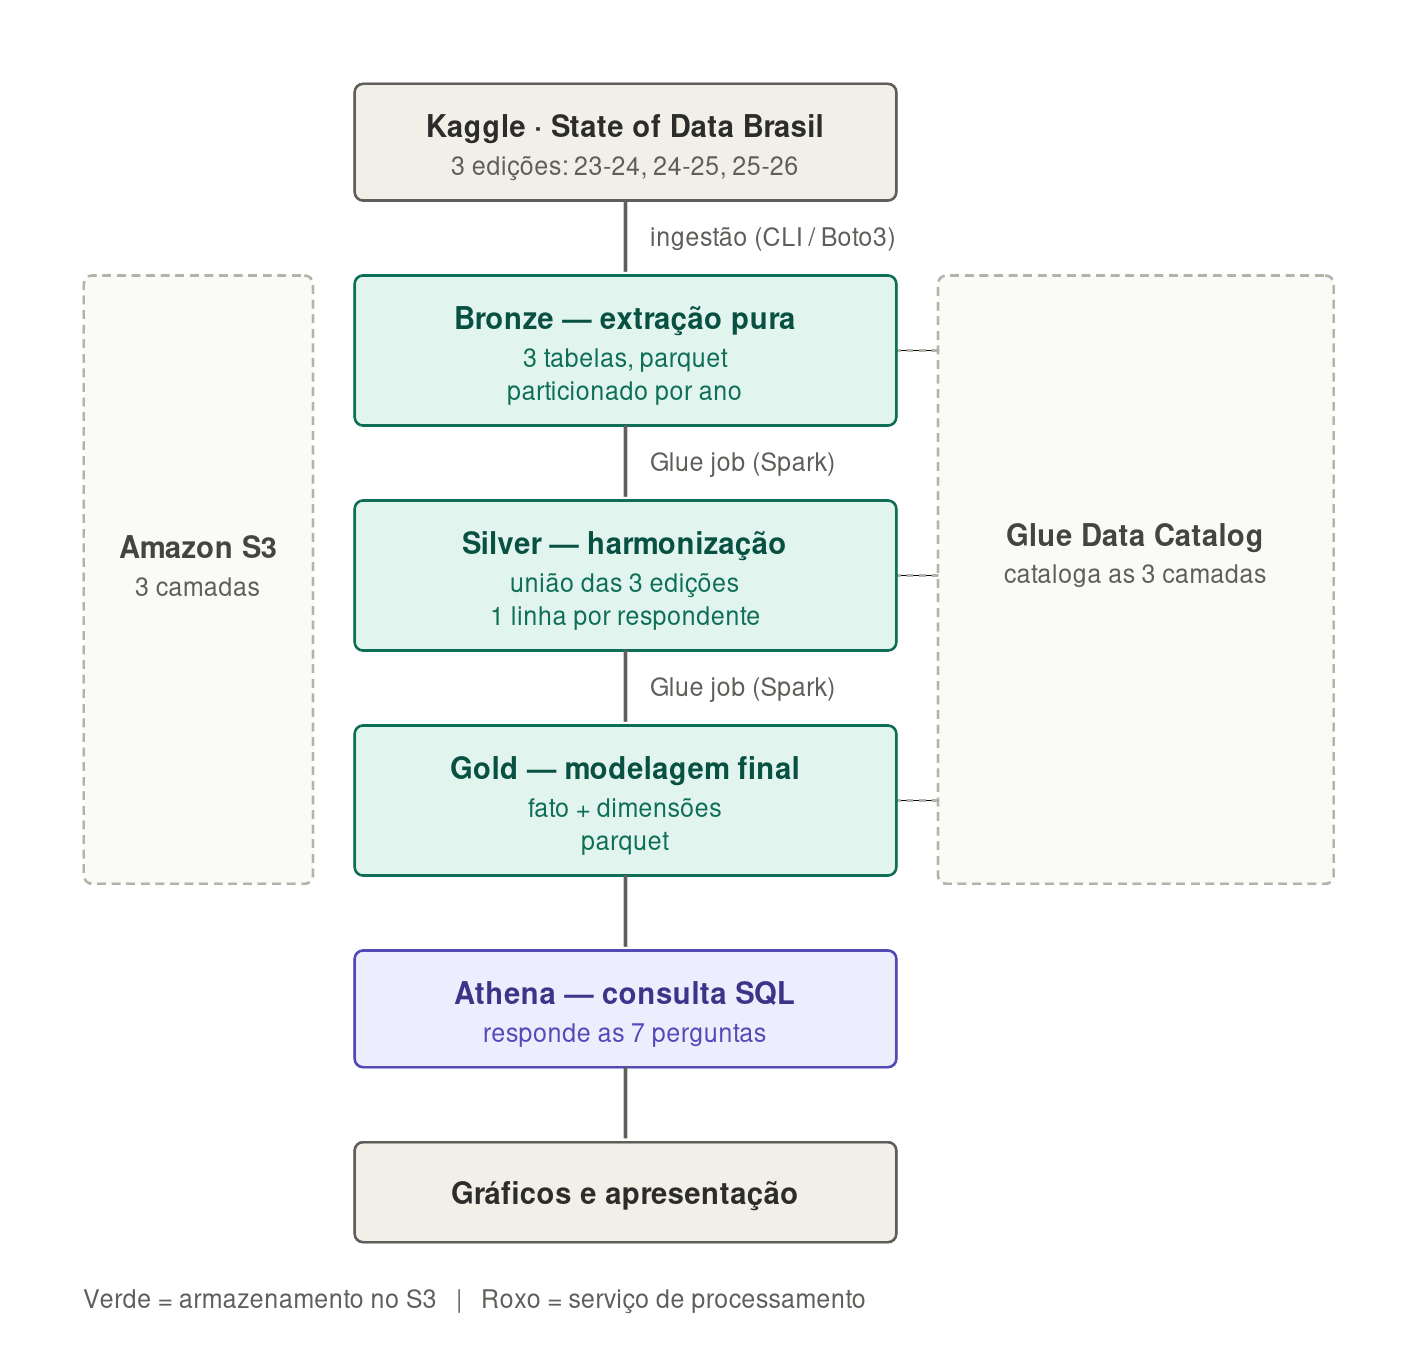
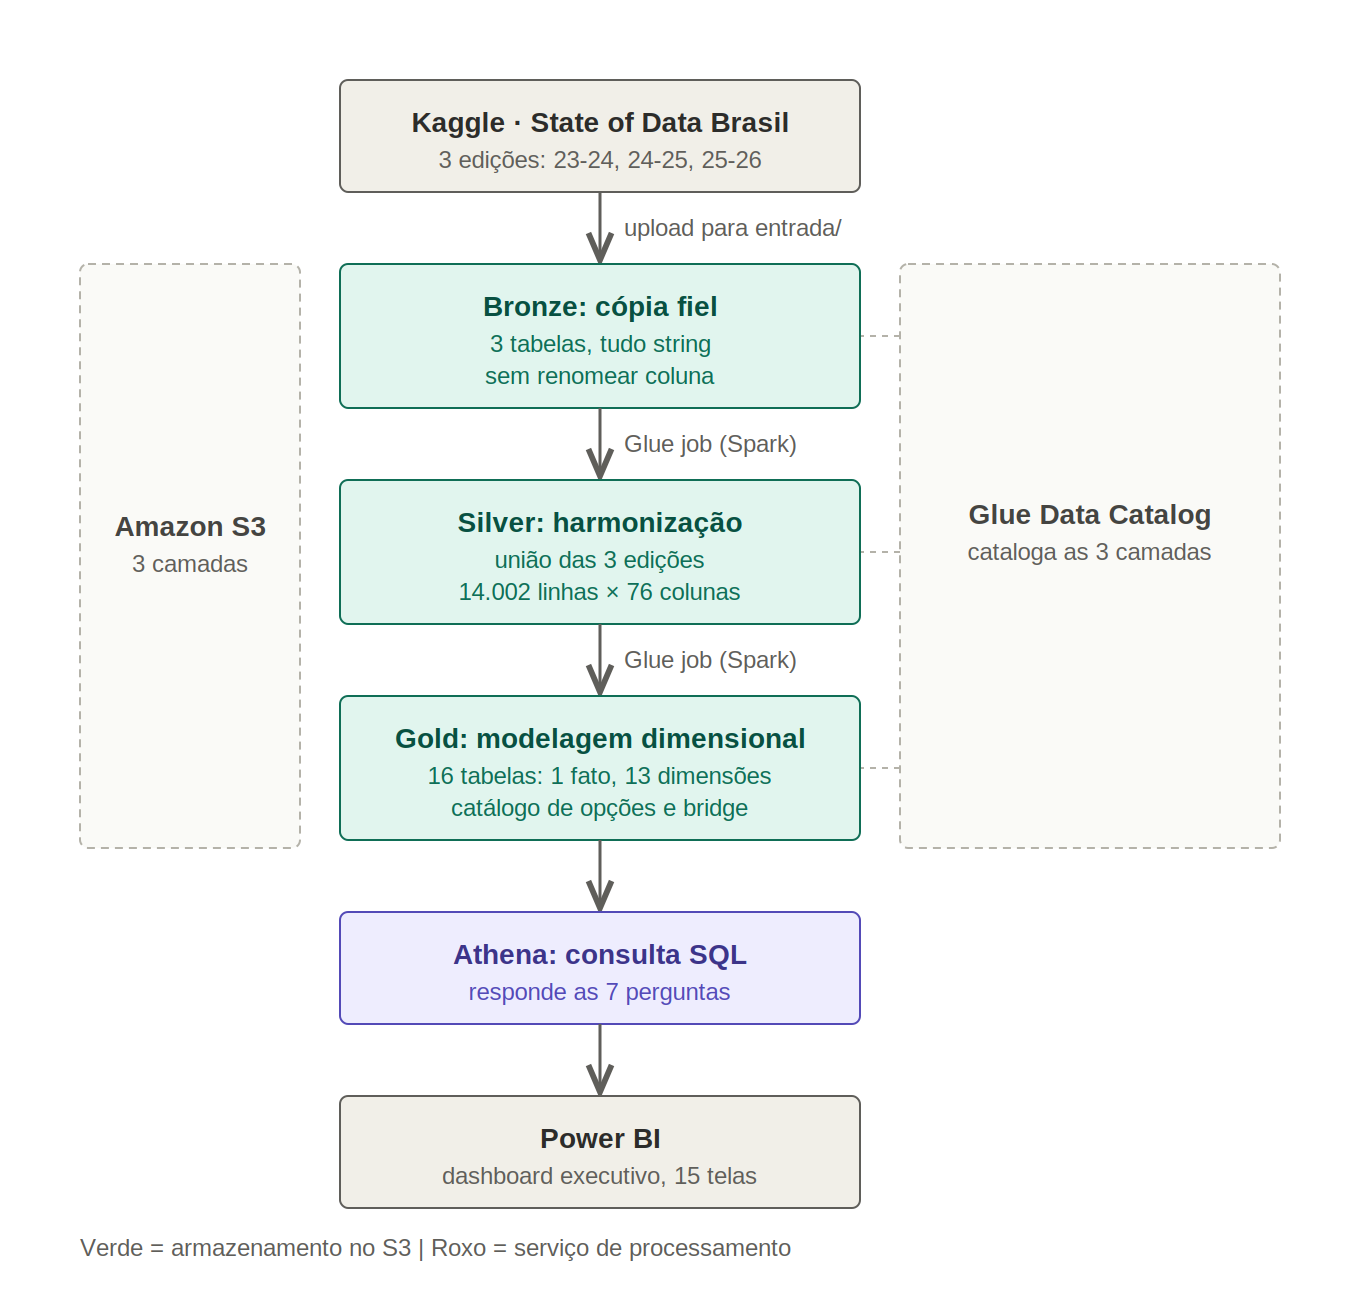
docs: corrigir arquitetura, publicar o drawio editavel e tirar o numero do grupo dos identificadores

diff --git a/glue/bronze/job_bronze.py b/glue/bronze/job_bronze.py
@@ -20,7 +20,7 @@ depender da de cima. As três linhas do manifesto abaixo repetem o que existe em
 
 Origem do código: notebook do Gusthavo (`notebooks/01_bronze.ipynb`).
 
-Executa como Glue Job (PySpark). Grupo 21.
+Executa como Glue Job (PySpark).
 """
 
 import os
@@ -58,7 +58,7 @@ def parametro(nome: str, padrao: str) -> str:
     return os.getenv(nome, padrao)
 
 
-BUCKET = parametro("TC3_BUCKET", "s3://tc3-grupo21-datalake")
+BUCKET = parametro("TC3_BUCKET", "s3://tc3-datalake")
 PATH_ENTRADA = parametro("TC3_PATH_ENTRADA", f"{BUCKET}/entrada")
 PATH_BRONZE = parametro("TC3_PATH_BRONZE", f"{BUCKET}/bronze/state_data")
 
@@ -100,7 +100,7 @@ def gravar(df: DataFrame, caminho: str) -> None:
 
 
 def main() -> None:
-    spark = SparkSession.builder.appName("tc3-grupo21-bronze").getOrCreate()
+    spark = SparkSession.builder.appName("tc3-bronze").getOrCreate()
 
     erros = []
     for arquivo, tabela, linhas_ok, colunas_ok in EDICOES:

diff --git a/glue/gold/gold_comum.py b/glue/gold/gold_comum.py
@@ -1,7 +1,7 @@
 """
 Camada GOLD: base compartilhada pelas 7 perguntas de negócio.
 
-TC3 Grupo 21. Combinado do grupo: **cada um constrói a Gold que alimenta as
+TC3. Combinado do grupo: **cada um constrói a Gold que alimenta as
 SUAS perguntas**, para não haver dois donos na mesma tabela. Este módulo é a
 parte comum, leitura da Silver, dimensões conformadas e os utilitários que
 evitam os erros de contagem que a base cobra caro.
@@ -26,7 +26,7 @@ from pyspark.sql import types as T
 
 from config_silver import parametro  # noqa: E402
 
-BUCKET = parametro("TC3_BUCKET", "s3://tc3-grupo21-datalake")
+BUCKET = parametro("TC3_BUCKET", "s3://tc3-datalake")
 PATH_SILVER = parametro("TC3_PATH_SILVER", f"{BUCKET}/silver/state_data")
 PATH_GOLD = parametro("TC3_PATH_GOLD", f"{BUCKET}/gold")
 DATABASE_GLUE = parametro("TC3_DATABASE", "state_of_data")

diff --git a/glue/silver/job_silver.py b/glue/silver/job_silver.py
@@ -19,7 +19,7 @@ O que esta camada faz (e a Bronze não pode fazer):
 
 Executa como Glue Job (PySpark). Para rodar local, ver notebooks/03_silver_uniao.ipynb.
 
-Autor: Caio Bosnic (Grupo 21)
+Autor: Caio Bosnic
 """
 
 import sys
@@ -374,7 +374,7 @@ def construir_silver(spark: SparkSession) -> DataFrame:
 def main() -> None:
     spark = (
         SparkSession.builder
-        .appName("tc3-grupo21-silver")
+        .appName("tc3-silver")
         .config("spark.sql.sources.partitionOverwriteMode", "dynamic")
         .getOrCreate()
     )

diff --git a/glue/silver/config_silver.py b/glue/silver/config_silver.py
@@ -1,5 +1,5 @@
 """
-Contrato da camada Silver. TC3 Grupo 21.
+Contrato da camada Silver. TC3.
 
 Este módulo NÃO executa nada. Ele declara, em um só lugar:
 
@@ -332,7 +332,7 @@ def parametro(nome: str, padrao: str) -> str:
     return os.getenv(nome, padrao)
 
 
-BUCKET = parametro("TC3_BUCKET", "s3://tc3-grupo21-datalake")
+BUCKET = parametro("TC3_BUCKET", "s3://tc3-datalake")
 
 # Job parameter no Glue, variável de ambiente na máquina: o mesmo job roda nos
 # dois lugares sem branch no código.

diff --git a/dev/tests/verificacoes_silver.py b/dev/tests/verificacoes_silver.py
@@ -9,7 +9,7 @@ Este módulo não roda nada sozinho. Ele é consumido por dois lugares:
 A lógica das asserções mora AQUI e só aqui. Se estivesse duplicada nos dois,
 uma correção num lugar sairia divergente do outro na primeira semana.
 
-Autor: Caio Bosnic (Grupo 21)
+Autor: Caio Bosnic
 """
 
 import glob

diff --git a/glue/gold/job_gold.py b/glue/gold/job_gold.py
@@ -33,7 +33,7 @@ A pesquisa é anual e não tem data de evento: o grão de tempo é a edição. U
 tabela de datas com 1.095 linhas para 3 valores distintos só cria relacionamento
 morto. Decisão registrada em DECISOES_E_ACHADOS.md.
 
-Autor: Caio Bosnic (Grupo 21)
+Autor: Caio Bosnic
 """
 
 import functools

diff --git a/glue/silver/grupos_multipla_escolha.py b/glue/silver/grupos_multipla_escolha.py
@@ -1,5 +1,5 @@
 """
-Grupos de múltipla escolha do State of Data Brasil. TC3 Grupo 21.
+Grupos de múltipla escolha do State of Data Brasil. TC3.
 
 ARQUIVO GERADO. Não editar à mão sem registrar o motivo aqui.
 

diff --git a/docs/PENDENCIAS.md b/docs/PENDENCIAS.md
@@ -9,10 +9,17 @@ Entregáveis e decisões ainda abertos. Ordem de prioridade.
 | O que | Onde começa |
 |---|---|
 | Apresentação executiva (PPT) | a partir dos prints do dashboard e dos números de `results/` |
-| Desenho da arquitetura no draw.io | conferir se `docs/arquitetura_tc3.png` atende ou refazer com as três camadas e o Data Catalog transversal |
 | Notebooks `03_gold.ipynb` e `04_analises_e_graficos.ipynb` | `notebooks/` hoje tem Bronze, Silver e a validação da Silver |
 
 ## Aberto com o grupo
+
+**Qual desenho da arquitetura vai na apresentação.** Existem dois, e eles
+divergem. O do Gusthavo (`docs/arquitetura_dw_gusthavo.png`, fonte no Drive)
+mostra o Data Catalog como uma etapa entre a Gold e o Athena e termina em
+QuickSight. O nosso (`docs/arquitetura_tc3.drawio`, com `.svg` e `.png` ao lado)
+põe o Catalog como camada transversal às três, que é como o crawler roda de
+fato, e termina no Power BI, que foi a ferramenta usada. Decidir qual entra, ou
+se o do Gusthavo é atualizado a partir do `.drawio`.
 
 **Contagem de 2023.** O SQL do Gusthavo comenta 5.923 respostas, e a Silver tem
 5.293. Os dígitos são os mesmos em ordem diferente, o que sugere digitação, mas
@@ -27,6 +34,11 @@ apontando o crawler para um caminho com o nome desejado.
 
 ## Git
 
-Existe um repositório em `techchallenge/` cobrindo os três Tech Challenges, então
-`git init` dentro desta pasta criaria um repositório aninhado. Conferir
-`git remote -v` antes de decidir os comandos de push.
+O repositório do grupo é
+[`GusthavoSoares/tech_challenge_data_analytics_fase_3`](https://github.com/GusthavoSoares/tech_challenge_data_analytics_fase_3),
+e hoje traz a Bronze do Gusthavo: o notebook do ETL, as três consultas e o
+desenho do DW. Como as duas histórias começaram separadas, o que vem daqui entra
+por branch e Pull Request, não direto no `main`.
+
+Fonte do desenho da arquitetura, no Drive do Gusthavo:
+<https://drive.google.com/file/d/1DngqFuv4RscUxi_CCq9VnvH3tNjJUTdW/view?usp=sharing>

diff --git a/docs/CONTRATO_SILVER.md b/docs/CONTRATO_SILVER.md
@@ -1,6 +1,6 @@
 # Contrato da camada Silver: `silver_dw_fat_respondente`
 
-**TC3 Grupo 21** · dono: Caio · atualizado em 30/08/2026
+**TC3** · dono: Caio · atualizado em 30/08/2026
 
 Este é o documento que o resto do grupo precisa para construir a Gold e as
 consultas do Athena **sem depender de mim**. Se algo aqui mudar, eu aviso.
@@ -12,7 +12,7 @@ consultas do Athena **sem depender de mim**. Se algo aqui mudar, eu aviso.
 | | |
 |---|---|
 | **Tabela** | `state_of_data.silver_dw_fat_respondente` |
-| **Caminho** | `s3://tc3-grupo21-datalake/silver/state_data/` |
+| **Caminho** | `s3://<bucket>/silver/state_data/` |
 | **Formato** | Parquet, tipado |
 | **Partição** | `ano_pesquisa` (2023 · 2024 · 2025) |
 | **Grão** | 1 linha por respondente por edição |

diff --git a/docs/COMO_RODAR_NA_AWS.md b/docs/COMO_RODAR_NA_AWS.md
@@ -185,8 +185,9 @@ Cada um: **Save** e depois **Run**. Acompanhar em **Runs**. Se falhar, o erro es
 ### 2.6 Catalogar
 
 O database **não existe até você criar**. No wizard do crawler tem `Add database`.
-Nome usado: **`state_of_data`**, que nomeia o dado e não o time: o número do grupo
-muda a cada fase e um database chamado `grupo21` envelhece mal.
+Nome usado: **`state_of_data`**, que nomeia o dado e não o time: a composição
+do grupo muda a cada fase, e database batizado com número de turma
+envelhece mal.
 
 Duas formas de catalogar, as duas valem:
 

diff --git a/docs/DECISOES_E_ACHADOS.md b/docs/DECISOES_E_ACHADOS.md
@@ -1,6 +1,6 @@
 # TC3: Decisões de arquitetura e achados nas bases
 
-Registro das decisões acordadas com o Grupo 21 e das validações feitas nas bases do
+Registro das decisões acordadas com o grupo e das validações feitas nas bases do
 **State of Data Brasil**. Atualizado em **20/08/2026**.
 
 > Este arquivo guarda o que é específico deste desafio: as decisões tomadas e o

diff --git a/docs/RESPOSTA_P7.md b/docs/RESPOSTA_P7.md
@@ -1,6 +1,6 @@
 # Pergunta 7: Oportunidades e desafios para investir em Dados e IA
 
-**TC3 Grupo 21** · Caio Bosnic · 30/08/2026
+**TC3** · Caio Bosnic · 30/08/2026
 Fonte: `gold_dw_p7_*`, sobre a Silver das três edições (14.002 respondentes)
 
 > **Cliente:** instituição financeira de grande porte querendo expandir sua área
